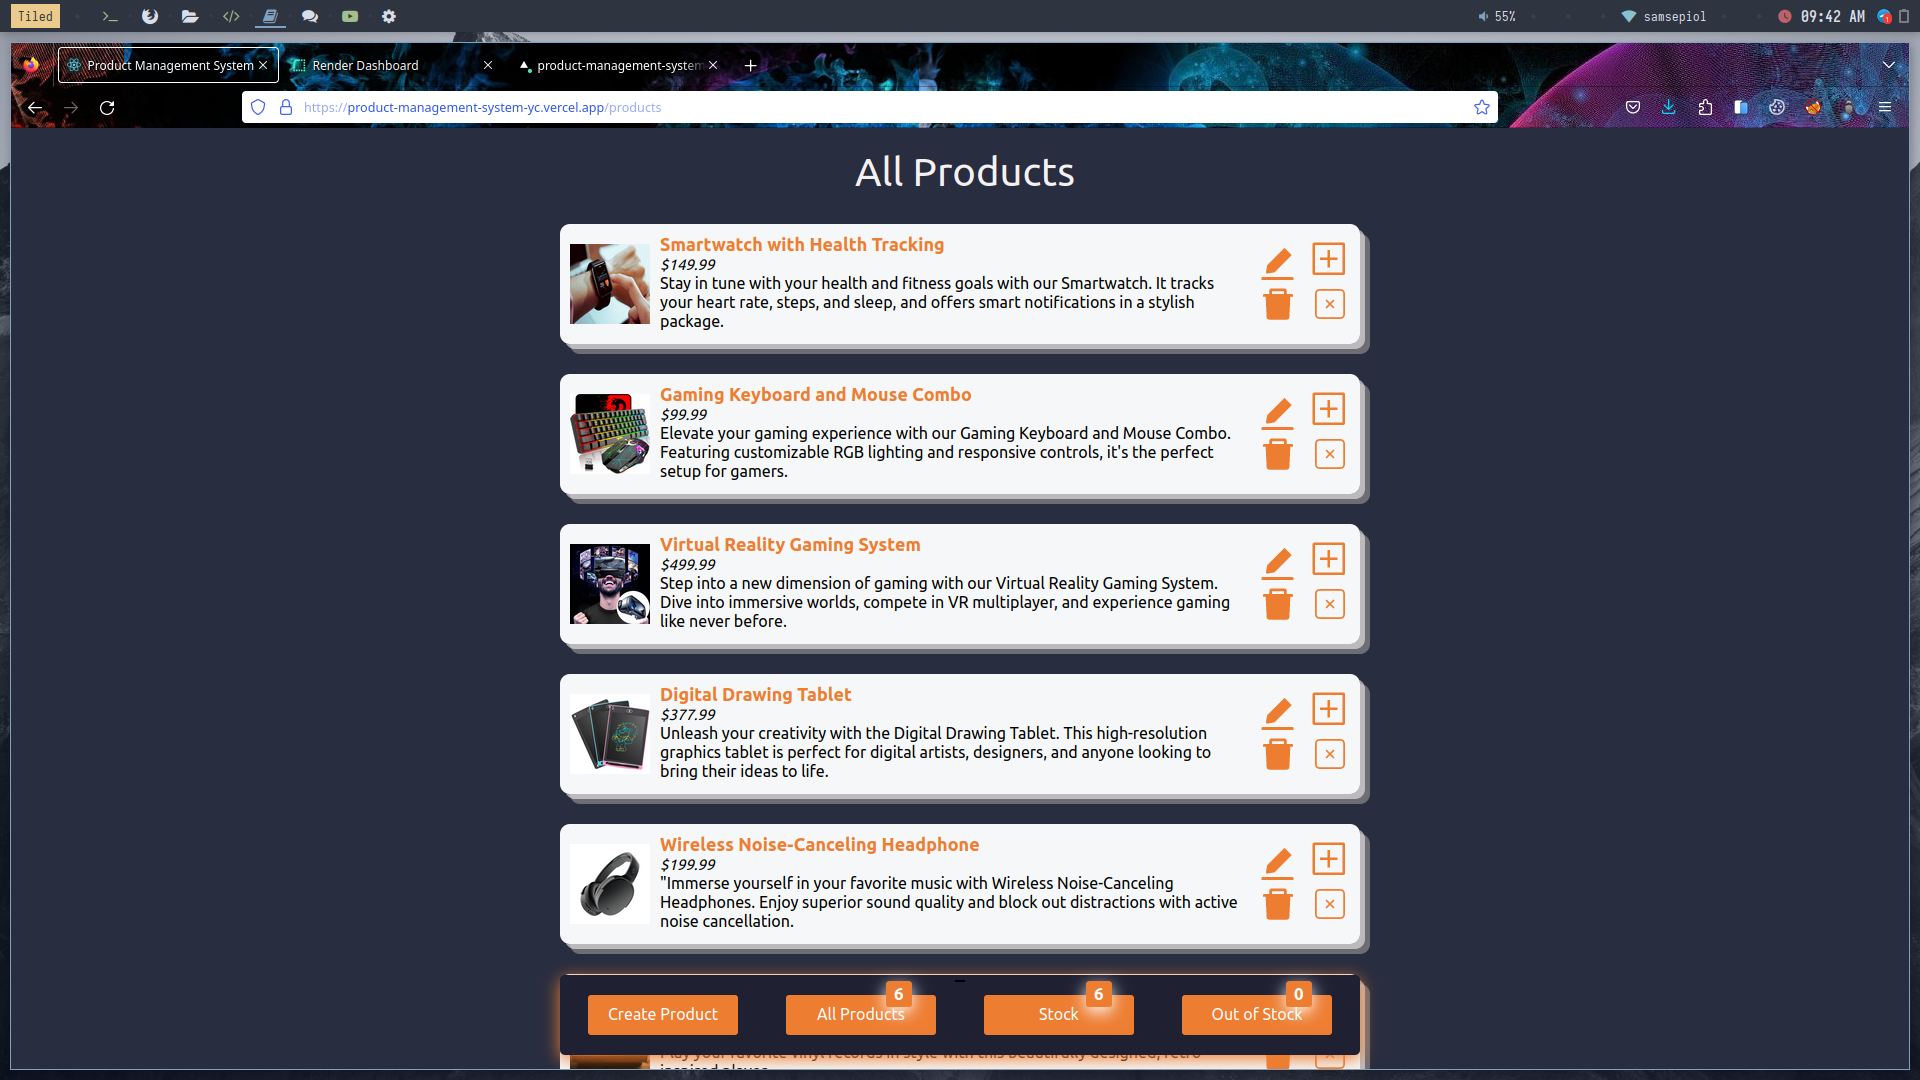
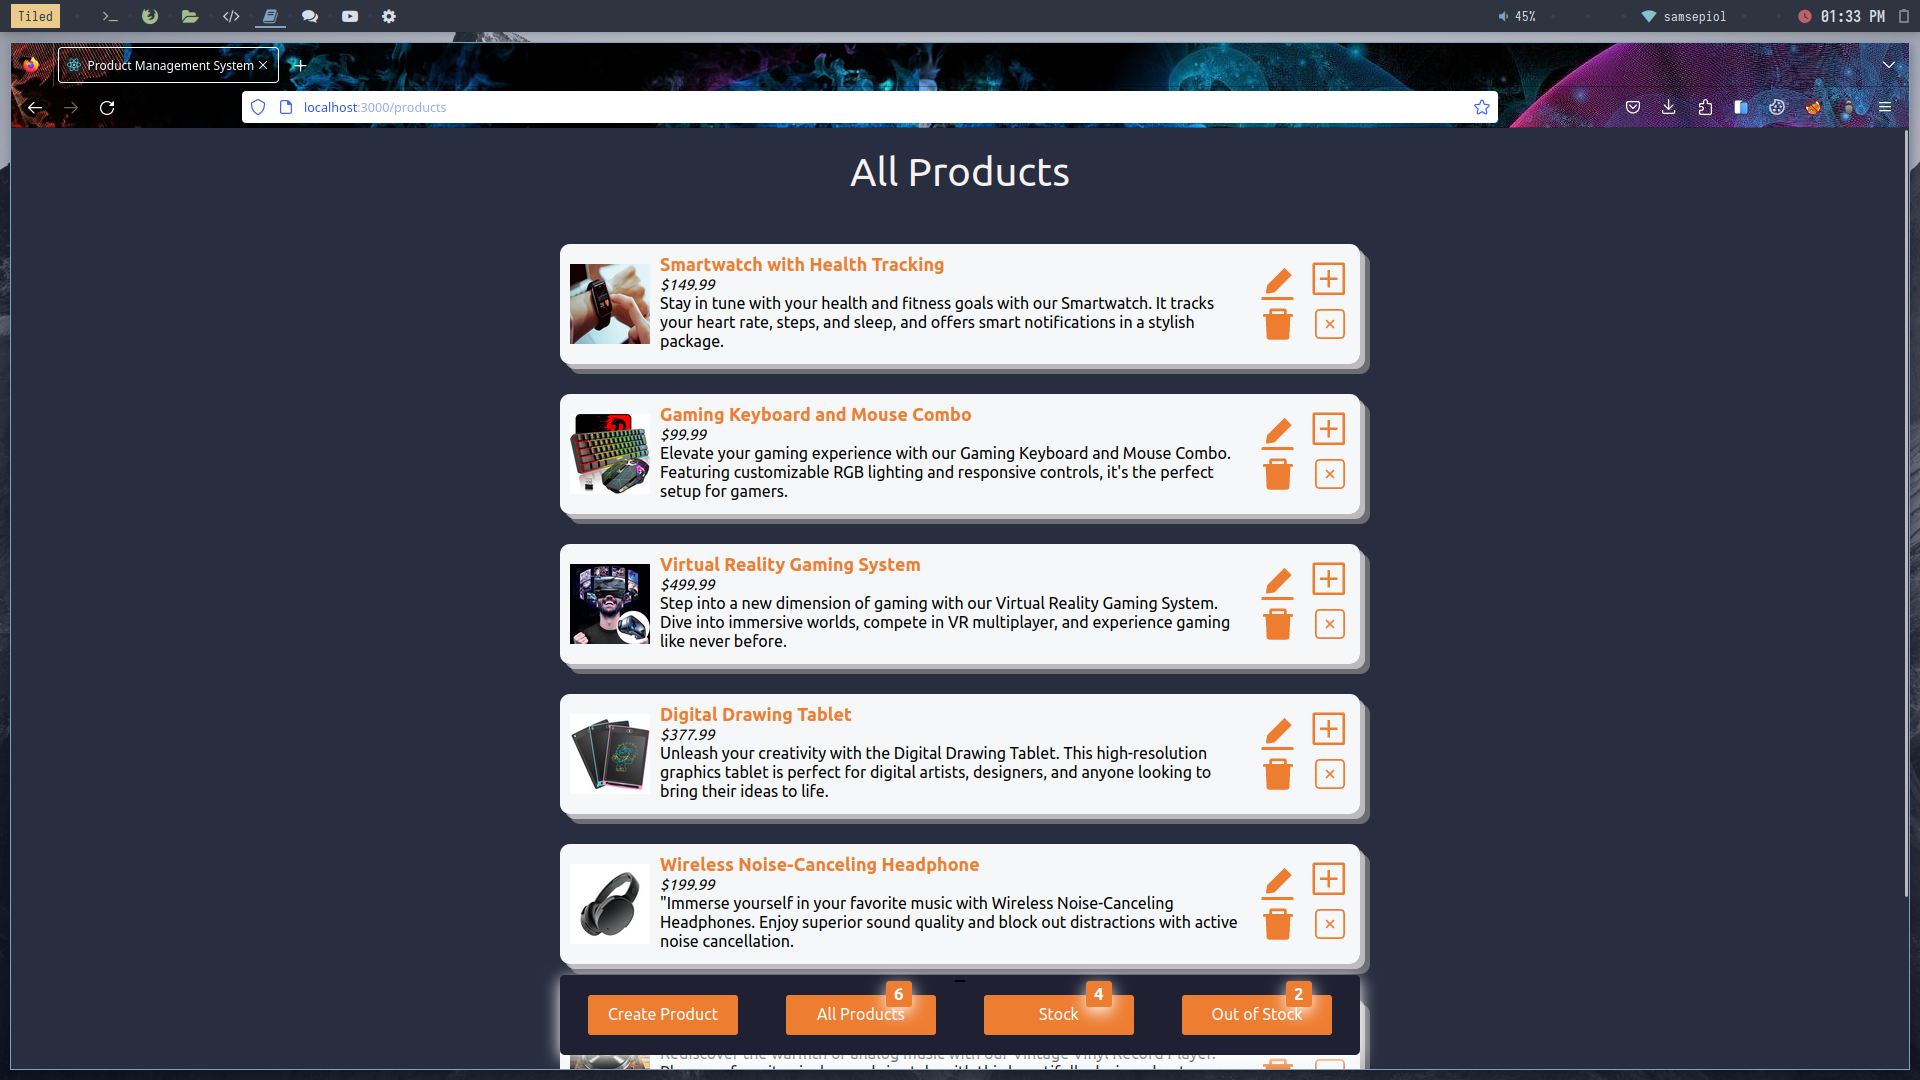
readme + app.css

diff --git a/app/src/pages/EditProduct.jsx b/app/src/pages/EditProduct.jsx
@@ -45,7 +45,7 @@ const EditProduct = () => {
         <Navbar />
         <h1 className='head'>Edit Product</h1>
         <form onSubmit={editProduct}>
-            <p className='edit'>Edit the field you want to change</p>
+            <p className='edit'>Edit the field/fields you want to change</p>
             <input type='text' 
             placeholder={'title'} 
             value={title} 

diff --git a/app/src/App.css b/app/src/App.css
@@ -18,7 +18,7 @@ h1.head{
   font-size: 40px;
   font-weight: 400;
   color: #F6F1F1;
-  margin: 20px 0 0 10px;
+  margin: 20px 0;
 }
 form{
   padding: 30px 20px;
@@ -26,8 +26,8 @@ form{
   justify-self: center;
   align-items: center;
   flex-direction: column;
-  gap: 10px;
-  box-shadow: #ed7d31 0px 8px 24px;
+  gap: 15px;
+  box-shadow: #fff 0px 8px 24px;
 }
 
 form h1{

diff --git a/app/src/components/navbar.css b/app/src/components/navbar.css
@@ -23,7 +23,7 @@ a{
     top: 90vh;
     background-color: #1f2133;
     border-radius: 5px;
-    box-shadow: #ED7D31 0 4px 15px;
+    box-shadow: #fff 0 4px 15px;
     /* box-shadow: rgba(50, 50, 93, 0.25) 0px 30px 60px -12px, rgba(0, 0, 0, 0.3) 0px 18px 36px -18px; */
 }
 .available{

diff --git a/README.md b/README.md
@@ -1,6 +1,9 @@
 # YENETTA CODE BOOTCAMP TEST
-
-## PRODUCT MANAGEMENT SYSTEM
+--------------------------------------
+--------------------------------------
+## PRODUCT MANAGEMENT SYSTEM CRUD OPERATIONS
+--------------------------------------
+--------------------------------------
 
 ## Getting Started
 ## Prerequest 
@@ -37,7 +40,7 @@ To start the React app use the following command:
 `npm start`
 
 # project Link
-Link click [here](https://product-management-system-yc.vercel.app)
+Click [here](https://product-management-system-yc.vercel.app) to visit the site
 or use this link `https://product-management-system-yc.vercel.app`
 
 
@@ -49,6 +52,8 @@ or use this link `https://product-management-system-yc.vercel.app`
 ![COMMANDS!](screenshots/out_of_stock.png)
 --------------------------------------
 ![COMMANDS!](screenshots/stock.png)
+--------------------------------------
+![COMMANDS!](screenshots/empty_out_of_stock.png)
 --------------------------------------
 ![COMMANDS!](screenshots/edit_product.png)
 --------------------------------------
